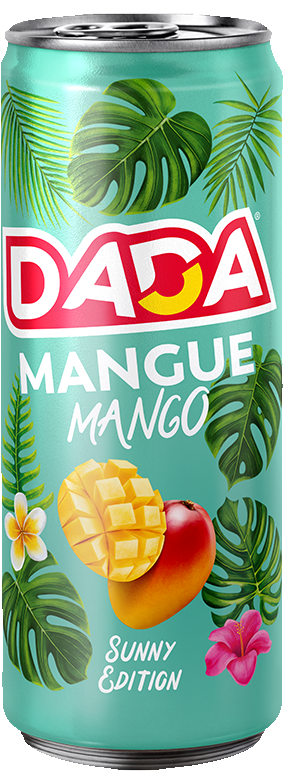
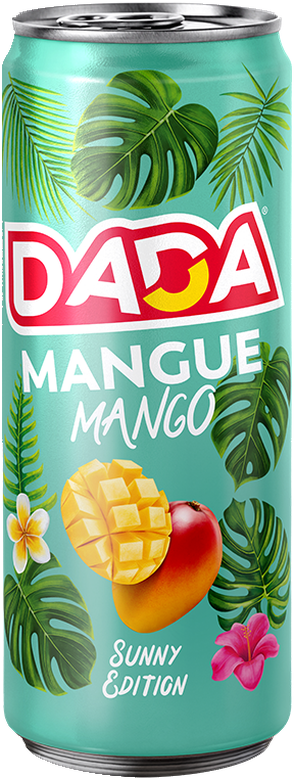
Canettes redécoupées depuis les visuels officiels, finitions (v66)
- 13 canettes redécoupées (scripts/recut_cans.py) : même source officielle
  « canette devant son pack », bord droit mesuré au sous-pixel, bord gauche
  reconstruit en miroir → plus d'encoche, de bord rogné ni de morceau de
  pack ; même taille, perspective et lumière pour toutes (canSrc ?v=4)
- histoire : chapitre 5 remis dans l'ordre (canette slim 2018 avant le
  nouveau logo)
- boutique : bouton « Ajouter » qui passe à la ligne sur cartes étroites
- pros : badge « Meilleur prix » hors du chiffre, prix des vitrines alignés
- README : nouvelles pages et sources

diff --git a/css/style.css b/css/style.css
@@ -144,7 +144,8 @@ button{font-family:inherit;cursor:none;border:none;background:none;color:inherit
 .cart-done h4{font-family:var(--font-display);font-weight:900;text-transform:uppercase;font-size:22px;margin-bottom:8px;color:var(--ink)}
 .cart-done p{color:var(--ink-soft);line-height:1.6;max-width:30ch;margin:0 auto}
 /* bouton Ajouter sur les cartes boutique */
-.fc-buy{display:flex;align-items:center;justify-content:space-between;gap:12px;margin-top:16px;position:relative;z-index:3}
+.fc-buy{display:flex;align-items:center;justify-content:space-between;flex-wrap:wrap;gap:10px 12px;margin-top:16px;position:relative;z-index:3}
+.fc-buy .fc-add{margin-left:auto}
 .fc-price{font-family:var(--font-display);font-weight:900;font-size:19px;color:#fff;text-shadow:0 2px 10px rgba(0,0,0,.45)}
 .fc-price small{display:block;font-size:10.5px;font-weight:800;letter-spacing:.06em;text-transform:uppercase;opacity:.88;margin-top:2px}
 .fc-add{display:inline-flex;align-items:center;gap:7px;border:none;cursor:pointer;padding:11px 18px;border-radius:30px;background:#fff;color:#160A0C;font-family:var(--font-display);font-weight:800;text-transform:uppercase;letter-spacing:.03em;font-size:13px;transition:transform .3s var(--ease),box-shadow .3s}
@@ -1209,7 +1210,7 @@ body:has(.hero--cinema) .nav:not(.scrolled):not(.nav-open) .nav-burger span{back
 .tier-p{font-family:var(--font-display);font-weight:900;font-size:24px;margin-top:14px;color:var(--ink)}
 .tier-u{font-size:13px;color:var(--ink-soft);margin-bottom:16px}
 .tier--best{border-color:var(--rouge);box-shadow:0 22px 46px -26px rgba(226,0,26,.5)}
-.tier-badge{position:absolute;top:14px;right:14px;background:var(--rouge);color:#fff;font-family:var(--font-display);font-weight:800;font-size:10.5px;
+.tier-badge{position:absolute;top:-12px;right:16px;box-shadow:0 8px 18px -8px rgba(226,0,26,.6);background:var(--rouge);color:#fff;font-family:var(--font-display);font-weight:800;font-size:10.5px;
   text-transform:uppercase;letter-spacing:.05em;padding:5px 10px;border-radius:20px}
 .tier .fr-add{margin-top:auto;display:inline-flex;align-items:center;gap:6px;border:none;cursor:pointer;padding:11px 18px;border-radius:30px;background:var(--rouge);color:#fff;
   font-family:var(--font-display);font-weight:800;text-transform:uppercase;letter-spacing:.03em;font-size:12px;transition:transform .3s var(--ease),box-shadow .3s}
@@ -1219,7 +1220,9 @@ body:has(.hero--cinema) .nav:not(.scrolled):not(.nav-open) .nav-burger span{back
 .fr-photo img{width:100%;height:100%;object-fit:cover;object-position:center 42%;display:block}
 .fr-photo figcaption{position:absolute;left:18px;bottom:16px;font-family:var(--font-display);font-weight:800;font-size:12px;text-transform:uppercase;
   letter-spacing:.05em;color:#fff;background:rgba(10,1,3,.55);backdrop-filter:blur(6px);padding:7px 12px;border-radius:12px}
-.fridge-card .fr-gift{display:inline-block;margin-top:10px;font-family:var(--font-display);font-weight:800;font-size:12px;text-transform:uppercase;letter-spacing:.04em;
+.fridge-card{display:flex;flex-direction:column}
+.fridge-card .fr-buy{margin-top:auto;padding-top:18px}
+.fridge-card .fr-gift{align-self:center;display:inline-block;margin-top:10px;font-family:var(--font-display);font-weight:800;font-size:12px;text-transform:uppercase;letter-spacing:.04em;
   color:var(--rouge);background:color-mix(in srgb,var(--rouge) 10%,#fff);padding:6px 12px;border-radius:20px}
 .pro-wa{display:inline-flex;align-items:center;gap:8px;margin-top:18px;color:#fff;font-family:var(--font-display);font-weight:800;font-size:14px;letter-spacing:.02em;
   text-decoration:none;border-bottom:1px solid rgba(255,255,255,.45);padding-bottom:2px}

diff --git a/index.html b/index.html
@@ -18,7 +18,7 @@
 <meta property="og:image" content="https://viudesdominique12-droid.github.io/dada-drinks-site/assets/photos/zoom-4.jpg" />
 <meta property="og:url" content="https://viudesdominique12-droid.github.io/dada-drinks-site/index.html" />
 <meta name="twitter:card" content="summary_large_image" />
-<link rel="stylesheet" href="css/style.css?v=65" />
+<link rel="stylesheet" href="css/style.css?v=66" />
 </head>
 <body>
 
@@ -143,7 +143,7 @@
     <div class="exp-can-col">
       <div class="exp-backdrop" aria-hidden="true"><img src="assets/insta/bubbles-macro.jpg" alt="" loading="lazy" /></div>
       <div class="exp-bubbles" id="expBubbles" aria-hidden="true"></div>
-      <span class="can-fx exp-can is-frosty" id="expCan" role="img" aria-label="Canette Dada Mojito"><img class="can-fx__img" src="assets/cans/clean/mojito.png?v=3" alt="" draggable="false" /><span class="can-fx__sheen"></span><span class="can-fx__frost"></span></span>
+      <span class="can-fx exp-can is-frosty" id="expCan" role="img" aria-label="Canette Dada Mojito"><img class="can-fx__img" src="assets/cans/clean/mojito.png?v=4" alt="" draggable="false" /><span class="can-fx__sheen"></span><span class="can-fx__frost"></span></span>
     </div>
     <div class="exp-text-col">
       <p class="section-tag light"><span>03</span> L'expérience</p>
@@ -305,7 +305,7 @@
     <div class="buy-grid">
       <a class="buy-card buy-card--b2c" href="particuliers.html" data-cursor="Go">
         <div class="buy-glow" aria-hidden="true"></div>
-        <span class="can-fx buy-can" aria-hidden="true"><img class="can-fx__img" src="assets/cans/clean/mangue.png?v=3" alt="" draggable="false" /><span class="can-fx__sheen"></span><span class="can-fx__frost"></span></span>
+        <span class="can-fx buy-can" aria-hidden="true"><img class="can-fx__img" src="assets/cans/clean/mangue.png?v=4" alt="" draggable="false" /><span class="can-fx__sheen"></span><span class="can-fx__frost"></span></span>
         <div class="buy-meta">
           <span class="buy-kicker">Particuliers</span>
           <h3>Achète la gamme</h3>
@@ -315,7 +315,7 @@
       </a>
       <a class="buy-card buy-card--b2b" href="professionnels.html" data-cursor="Go">
         <div class="buy-glow" aria-hidden="true"></div>
-        <span class="can-fx buy-can" aria-hidden="true"><img class="can-fx__img" src="assets/cans/clean/cola.png?v=3" alt="" draggable="false" /><span class="can-fx__sheen"></span><span class="can-fx__frost"></span></span>
+        <span class="can-fx buy-can" aria-hidden="true"><img class="can-fx__img" src="assets/cans/clean/cola.png?v=4" alt="" draggable="false" /><span class="can-fx__sheen"></span><span class="can-fx__frost"></span></span>
         <div class="buy-meta">
           <span class="buy-kicker">Professionnels</span>
           <h3>Deviens revendeur</h3>
@@ -389,7 +389,7 @@
 <script src="https://cdnjs.cloudflare.com/ajax/libs/gsap/3.13.0/gsap.min.js"></script>
 <script src="https://cdnjs.cloudflare.com/ajax/libs/gsap/3.13.0/ScrollTrigger.min.js"></script>
 <script src="https://cdn.jsdelivr.net/npm/lenis@1.1.14/dist/lenis.min.js"></script>
-<script src="js/main.js?v=65"></script>
-<script src="js/fx.js?v=65"></script>
+<script src="js/main.js?v=66"></script>
+<script src="js/fx.js?v=66"></script>
 </body>
 </html>

diff --git a/histoire.html b/histoire.html
@@ -18,7 +18,7 @@
 <meta property="og:image" content="https://viudesdominique12-droid.github.io/dada-drinks-site/assets/photos/zoom-4.jpg" />
 <meta property="og:url" content="https://viudesdominique12-droid.github.io/dada-drinks-site/histoire.html" />
 <meta name="twitter:card" content="summary_large_image" />
-<link rel="stylesheet" href="css/style.css?v=65" />
+<link rel="stylesheet" href="css/style.css?v=66" />
 </head>
 <body>
 
@@ -124,13 +124,13 @@
 
     <article class="story" style="--c:#8BC34A">
       <div class="story-media">
-        <img src="assets/histoire/canette-slim-2018.jpg" alt="La canette slim Dada Pomme, lancée en 2018" loading="lazy" />
+        <img src="assets/histoire/canette-slim-2018.jpg" alt="La canette slim Dada Pomme de 2018, encore avec le premier logo" loading="lazy" />
         <span class="story-year">2018</span>
       </div>
       <div class="story-text">
         <p class="section-tag"><span>05</span> La relance</p>
-        <h2 class="reveal-lines">Nouveau logo,<br/>nouvelle énergie</h2>
-        <p>Lors d'une formation à HEC, il croise Xavier Fontanet, l'ancien patron d'Essilor. L'association ne se fait pas — et ça le motive encore plus. Nouvelle com', nouveau logo, réseaux sociaux, influenceurs&nbsp;: la croissance repart. Fin 2018, Dada passe à la canette slim.</p>
+        <h2 class="reveal-lines">Le second<br/>souffle</h2>
+        <p>Fin 2018, Dada passe à la canette slim. Lors d'une formation à HEC, il croise Xavier Fontanet, l'ancien patron d'Essilor. L'association ne se fait pas — et ça le motive encore plus. Nouvelle com', nouveau logo, réseaux sociaux, influenceurs&nbsp;: la croissance repart.</p>
       </div>
     </article>
 
@@ -248,7 +248,7 @@
 <script src="https://cdnjs.cloudflare.com/ajax/libs/gsap/3.13.0/gsap.min.js"></script>
 <script src="https://cdnjs.cloudflare.com/ajax/libs/gsap/3.13.0/ScrollTrigger.min.js"></script>
 <script src="https://cdn.jsdelivr.net/npm/lenis@1.1.14/dist/lenis.min.js"></script>
-<script src="js/main.js?v=65"></script>
-<script src="js/fx.js?v=65"></script>
+<script src="js/main.js?v=66"></script>
+<script src="js/fx.js?v=66"></script>
 </body>
 </html>

diff --git a/mentions-legales.html b/mentions-legales.html
@@ -18,7 +18,7 @@
 <meta property="og:image" content="https://viudesdominique12-droid.github.io/dada-drinks-site/assets/photos/zoom-4.jpg" />
 <meta property="og:url" content="https://viudesdominique12-droid.github.io/dada-drinks-site/mentions-legales.html" />
 <meta name="twitter:card" content="summary_large_image" />
-<link rel="stylesheet" href="css/style.css?v=65" />
+<link rel="stylesheet" href="css/style.css?v=66" />
 </head>
 <body>
 
@@ -142,7 +142,7 @@
 <script src="https://cdnjs.cloudflare.com/ajax/libs/gsap/3.13.0/gsap.min.js"></script>
 <script src="https://cdnjs.cloudflare.com/ajax/libs/gsap/3.13.0/ScrollTrigger.min.js"></script>
 <script src="https://cdn.jsdelivr.net/npm/lenis@1.1.14/dist/lenis.min.js"></script>
-<script src="js/main.js?v=65"></script>
-<script src="js/fx.js?v=65"></script>
+<script src="js/main.js?v=66"></script>
+<script src="js/fx.js?v=66"></script>
 </body>
 </html>

diff --git a/collaborations.html b/collaborations.html
@@ -18,7 +18,7 @@
 <meta property="og:image" content="https://viudesdominique12-droid.github.io/dada-drinks-site/assets/photos/zoom-4.jpg" />
 <meta property="og:url" content="https://viudesdominique12-droid.github.io/dada-drinks-site/collaborations.html" />
 <meta name="twitter:card" content="summary_large_image" />
-<link rel="stylesheet" href="css/style.css?v=65" />
+<link rel="stylesheet" href="css/style.css?v=66" />
 </head>
 <body>
 
@@ -183,7 +183,7 @@
 <script src="https://cdnjs.cloudflare.com/ajax/libs/gsap/3.13.0/gsap.min.js"></script>
 <script src="https://cdnjs.cloudflare.com/ajax/libs/gsap/3.13.0/ScrollTrigger.min.js"></script>
 <script src="https://cdn.jsdelivr.net/npm/lenis@1.1.14/dist/lenis.min.js"></script>
-<script src="js/main.js?v=65"></script>
-<script src="js/fx.js?v=65"></script>
+<script src="js/main.js?v=66"></script>
+<script src="js/fx.js?v=66"></script>
 </body>
 </html>

diff --git a/professionnels.html b/professionnels.html
@@ -18,7 +18,7 @@
 <meta property="og:image" content="https://viudesdominique12-droid.github.io/dada-drinks-site/assets/photos/zoom-4.jpg" />
 <meta property="og:url" content="https://viudesdominique12-droid.github.io/dada-drinks-site/professionnels.html" />
 <meta name="twitter:card" content="summary_large_image" />
-<link rel="stylesheet" href="css/style.css?v=65" />
+<link rel="stylesheet" href="css/style.css?v=66" />
 </head>
 <body>
 
@@ -223,7 +223,7 @@
 <script src="https://cdnjs.cloudflare.com/ajax/libs/gsap/3.13.0/gsap.min.js"></script>
 <script src="https://cdnjs.cloudflare.com/ajax/libs/gsap/3.13.0/ScrollTrigger.min.js"></script>
 <script src="https://cdn.jsdelivr.net/npm/lenis@1.1.14/dist/lenis.min.js"></script>
-<script src="js/main.js?v=65"></script>
-<script src="js/fx.js?v=65"></script>
+<script src="js/main.js?v=66"></script>
+<script src="js/fx.js?v=66"></script>
 </body>
 </html>

diff --git a/particuliers.html b/particuliers.html
@@ -18,7 +18,7 @@
 <meta property="og:image" content="https://viudesdominique12-droid.github.io/dada-drinks-site/assets/photos/zoom-4.jpg" />
 <meta property="og:url" content="https://viudesdominique12-droid.github.io/dada-drinks-site/particuliers.html" />
 <meta name="twitter:card" content="summary_large_image" />
-<link rel="stylesheet" href="css/style.css?v=65" />
+<link rel="stylesheet" href="css/style.css?v=66" />
 </head>
 <body>
 
@@ -211,7 +211,7 @@
 <script src="https://cdnjs.cloudflare.com/ajax/libs/gsap/3.13.0/gsap.min.js"></script>
 <script src="https://cdnjs.cloudflare.com/ajax/libs/gsap/3.13.0/ScrollTrigger.min.js"></script>
 <script src="https://cdn.jsdelivr.net/npm/lenis@1.1.14/dist/lenis.min.js"></script>
-<script src="js/main.js?v=65"></script>
-<script src="js/fx.js?v=65"></script>
+<script src="js/main.js?v=66"></script>
+<script src="js/fx.js?v=66"></script>
 </body>
 </html>

diff --git a/contact.html b/contact.html
@@ -18,7 +18,7 @@
 <meta property="og:image" content="https://viudesdominique12-droid.github.io/dada-drinks-site/assets/photos/zoom-4.jpg" />
 <meta property="og:url" content="https://viudesdominique12-droid.github.io/dada-drinks-site/contact.html" />
 <meta name="twitter:card" content="summary_large_image" />
-<link rel="stylesheet" href="css/style.css?v=65" />
+<link rel="stylesheet" href="css/style.css?v=66" />
 </head>
 <body>
 
@@ -280,7 +280,7 @@
 <script src="https://cdnjs.cloudflare.com/ajax/libs/gsap/3.13.0/gsap.min.js"></script>
 <script src="https://cdnjs.cloudflare.com/ajax/libs/gsap/3.13.0/ScrollTrigger.min.js"></script>
 <script src="https://cdn.jsdelivr.net/npm/lenis@1.1.14/dist/lenis.min.js"></script>
-<script src="js/main.js?v=65"></script>
-<script src="js/fx.js?v=65"></script>
+<script src="js/main.js?v=66"></script>
+<script src="js/fx.js?v=66"></script>
 </body>
 </html>

diff --git a/js/main.js b/js/main.js
@@ -26,7 +26,7 @@ const FLAVORS = [
   { id:'pomme',       name:'Pomme',         tag:'Pomme verte, croquante et nette.',          c:'#7CB342' },
   { id:'icetea',      name:'Ice Tea Pêche', tag:'Thé glacé pêche, façon Dada.',              c:'#E0A93B' },
 ];
-const canSrc = id => `assets/cans/clean/${id}.png?v=3`;
+const canSrc = id => `assets/cans/clean/${id}.png?v=4`;
 /* canette « vivante » : l'image + reflet métal + buée, les calques sont
    découpés à la silhouette exacte via mask-image (--can).
    --can doit être une URL ABSOLUE : un url() relatif dans une variable CSS se

diff --git a/scripts/recut_cans.py b/scripts/recut_cans.py
@@ -1,0 +1,102 @@
+"""Redécoupe les canettes Dada à partir des visuels officiels « canette devant son pack ».
+
+Sur ces visuels (dadadrinks.com, 1080 px, fond blanc), le bord droit de la
+canette se détache toujours sur le blanc, alors que le bord gauche chevauche
+souvent le pack. Une canette est symétrique : on mesure le bord droit ligne par
+ligne (couverture fractionnaire comprise), on trouve l'axe sur les lignes où
+les deux bords sont nets, et on reconstruit le bord gauche en miroir.
+Résultat : une silhouette exacte, sans encoche ni morceau de pack, lissée des
+deux côtés, avec des couleurs de bord débarrassées du blanc.
+
+Usage : python3 scripts/recut_cans.py DOSSIER_SOURCES DOSSIER_SORTIE
+"""
+import os
+import sys
+
+import numpy as np
+from PIL import Image
+
+SOURCES = {
+    'cola': 'pack-cola.png', 'cola-zero': 'pack-cola-zero.png', 'cola-cherry': 'can-cola-cherry.png',
+    'cerise': 'pack-cerise.png', 'fraise': 'pack-fraise.png', 'litchi': 'pack-litchi.png',
+    'lemon': 'pack-lemon.png', 'mangue': 'pack-mangue.png', 'melon': 'pack-melon.png',
+    'mojito': 'pack-mojito.png', 'peche': 'pack-peche.png', 'pomme': 'pack-pomme.png',
+    'icetea': 'pack-icetea.png',
+}
+SOLID = 40        # écart au blanc au-delà duquel un pixel est « objet »
+TARGET_H = 780    # hauteur commune des canettes en sortie
+
+
+def recut(path):
+    a = np.asarray(Image.open(path).convert('RGB')).astype(np.float32)
+    H, W, _ = a.shape
+    dev = (255.0 - a).max(axis=2)
+    solid = dev > SOLID
+
+    # la canette est l'objet le plus haut : ses colonnes sont pleines sur presque toute sa hauteur
+    counts = solid.sum(axis=0)
+    cols = np.flatnonzero(counts > 0.75 * counts.max())
+    cx0, cx1 = cols.min(), cols.max()
+    mid = slice(cx0 + (cx1 - cx0) // 3, cx1 - (cx1 - cx0) // 3)
+    rows = np.flatnonzero(solid[:, mid].any(axis=1))
+    top, bot = rows.min(), rows.max()
+
+    def frac(y, inside, outside):
+        ref = max(dev[y, inside], 1.0)
+        return float(np.clip(dev[y, outside] / ref, 0, 1))
+
+    # bord droit (rien à droite de la canette) avec couverture fractionnaire
+    xR = np.zeros(H)
+    lo, hi = max(0, cx0 - 12), min(W - 1, cx1 + 16)
+    for y in range(top, bot + 1):
+        xs = np.flatnonzero(solid[y, lo:hi + 1])
+        if len(xs):
+            i = lo + xs[-1]
+            xR[y] = i + 1 + (frac(y, max(0, i - 3), i + 1) if i + 1 < W else 0)
+
+    # axe : lignes où le pixel juste à gauche de la canette est blanc (bord gauche net)
+    axes = []
+    for y in range(top + int(0.04 * (bot - top)), bot - int(0.04 * (bot - top))):
+        probe = max(0, cx0 - 10)
+        if dev[y, probe] > 12 or xR[y] <= 0:
+            continue
+        xs = np.flatnonzero(solid[y, probe:cx0 + 30])
+        if not len(xs):
+            continue
+        j = probe + xs[0]
+        xl = j - (frac(y, min(W - 1, j + 3), j - 1) if j > 0 else 0)
+        axes.append((xl + xR[y]) / 2)
+    axis = float(np.median(axes))
+
+    # silhouette en miroir + couverture fractionnaire des deux côtés
+    alpha = np.zeros((H, W), np.float32)
+    xs = np.arange(W, dtype=np.float32)
+    for y in range(top, bot + 1):
+        if xR[y] <= 0:
+            continue
+        xL = 2 * axis - xR[y]
+        alpha[y] = np.clip(np.minimum(xs + 1, xR[y]) - np.maximum(xs, xL), 0, 1)
+    # bords haut et bas : quelques lignes lissées d'après l'écart au blanc, dans la silhouette
+    for y, ref in [(top - 1, top), (top - 2, top), (bot + 1, bot)]:
+        if 0 <= y < H:
+            alpha[y] = np.where(alpha[ref] > 0, np.clip(dev[y] / 120.0, 0, 1), 0)
+
+    # décontamination : on retire la part de blanc des pixels de bord
+    al = alpha[..., None]
+    rgb = np.where(al > 0, (a - (1 - al) * 255.0) / np.maximum(al, 1e-3), 0)
+    rgba = np.dstack([np.clip(rgb, 0, 255), alpha * 255]).astype(np.uint8)
+    im = Image.fromarray(rgba, 'RGBA')
+    bbox = im.getchannel('A').point(lambda v: 255 if v > 0 else 0).getbbox()
+    im = im.crop((bbox[0] - 2, bbox[1] - 2, bbox[2] + 2, bbox[3] + 2))
+    k = TARGET_H / im.height
+    return im.resize((round(im.width * k), TARGET_H), Image.LANCZOS), axis, len(axes)
+
+
+if __name__ == '__main__':
+    src_dir, out_dir = sys.argv[1], sys.argv[2]
+    os.makedirs(out_dir, exist_ok=True)
+    for name, f in SOURCES.items():
+        im, axis, n = recut(os.path.join(src_dir, f))
+        out = os.path.join(out_dir, name + '.png')
+        im.save(out, optimize=True)
+        print(f'{name:12s} {im.size}  axe={axis:.1f} ({n} lignes)  {os.path.getsize(out) // 1024} Ko')

diff --git a/README.md b/README.md
@@ -27,11 +27,14 @@ particuliers.html     → Boutique : toute la gamme (13 parfums) + où acheter
 professionnels.html   → Espace pro (B2B) : salon SIAL, avantages, packs 24×33, frigos/PLV, formulaire
 collaborations.html   → Dada × la culture (cartes photo) + vidéo TikTok + reel Instagram
 contact.html          → Contact : profils (contact.html#pro, #presse…), formulaire, FAQ, partenaires
+mentions-legales.html → Mentions légales (éditeur à compléter), données, cookies, crédits
 css/style.css         → design system + styles (THÈME CLAIR) partagés
 js/main.js            → logique partagée (GSAP + ScrollTrigger + Lenis), robuste par page
 js/fx.js              → moteurs visuels : mots remplis de jus, bulles, tube de verre, badge SIAL
 assets/brand/         → logo officiel Dada
-assets/cans/clean/    → 13 canettes détourées (fond transparent, silhouettes réparées)
+assets/cans/clean/    → 13 canettes redécoupées depuis les visuels officiels (scripts/recut_cans.py)
+assets/histoire/      → archives (premier logo, premières canettes 2007, canette slim 2018…)
+assets/pros/ assets/collabs/ → vitrines, palette, Quai 54, Paris Basket, JCDecaux
 assets/fx/            → textures d'effets (gouttelettes de buée)
 assets/insta/         → photos et reel issus de l'Instagram @dadadrinks
 assets/photos/        → photos street/lifestyle + frigos
@@ -40,7 +43,7 @@ scripts/              → scripts Python (détourage canettes, traitement images
 Photos/  Vidéos/      → où l'utilisateur dépose les nouveaux médias bruts
 ```
 
-> **Cache-busting** : les refs `css/style.css?v=N`, `js/main.js?v=N` et `js/fx.js?v=N` portent un numéro de version (actuel : **v65**) — l'incrémenter à chaque modif CSS/JS.
+> **Cache-busting** : les refs `css/style.css?v=N`, `js/main.js?v=N` et `js/fx.js?v=N` portent un numéro de version (actuel : **v66**) — l'incrémenter à chaque modif CSS/JS.
 
 ## 🎨 Design system (extrait de la marque)
 
@@ -72,7 +75,7 @@ capté sur l'Instagram @dadadrinks (rouge signature, photographie street, ton «
 
 ## 🖼 Visuels & médias
 
-Canettes, logo, photos = **assets officiels Dada** (détourés / optimisés), dont des posts récents de l'Instagram @dadadrinks — propriété de la marque, à valider pour une mise en ligne réelle.
+Canettes, logo, photos = **assets officiels Dada** (détourés / optimisés), issus de dadadrinks.com, de l'Instagram @dadadrinks et de la page Facebook DADA Drinks — propriété de la marque, à valider pour une mise en ligne réelle. Prix, composition, histoire et contacts sont alignés sur le site officiel (relevé du 20/10/2026).
 Pour ajouter un média : **le déposer dans `Photos/` ou `Vidéos/`**, puis il est traité (PIL / ffmpeg) et intégré.
 
 ## ⚠ Statut
